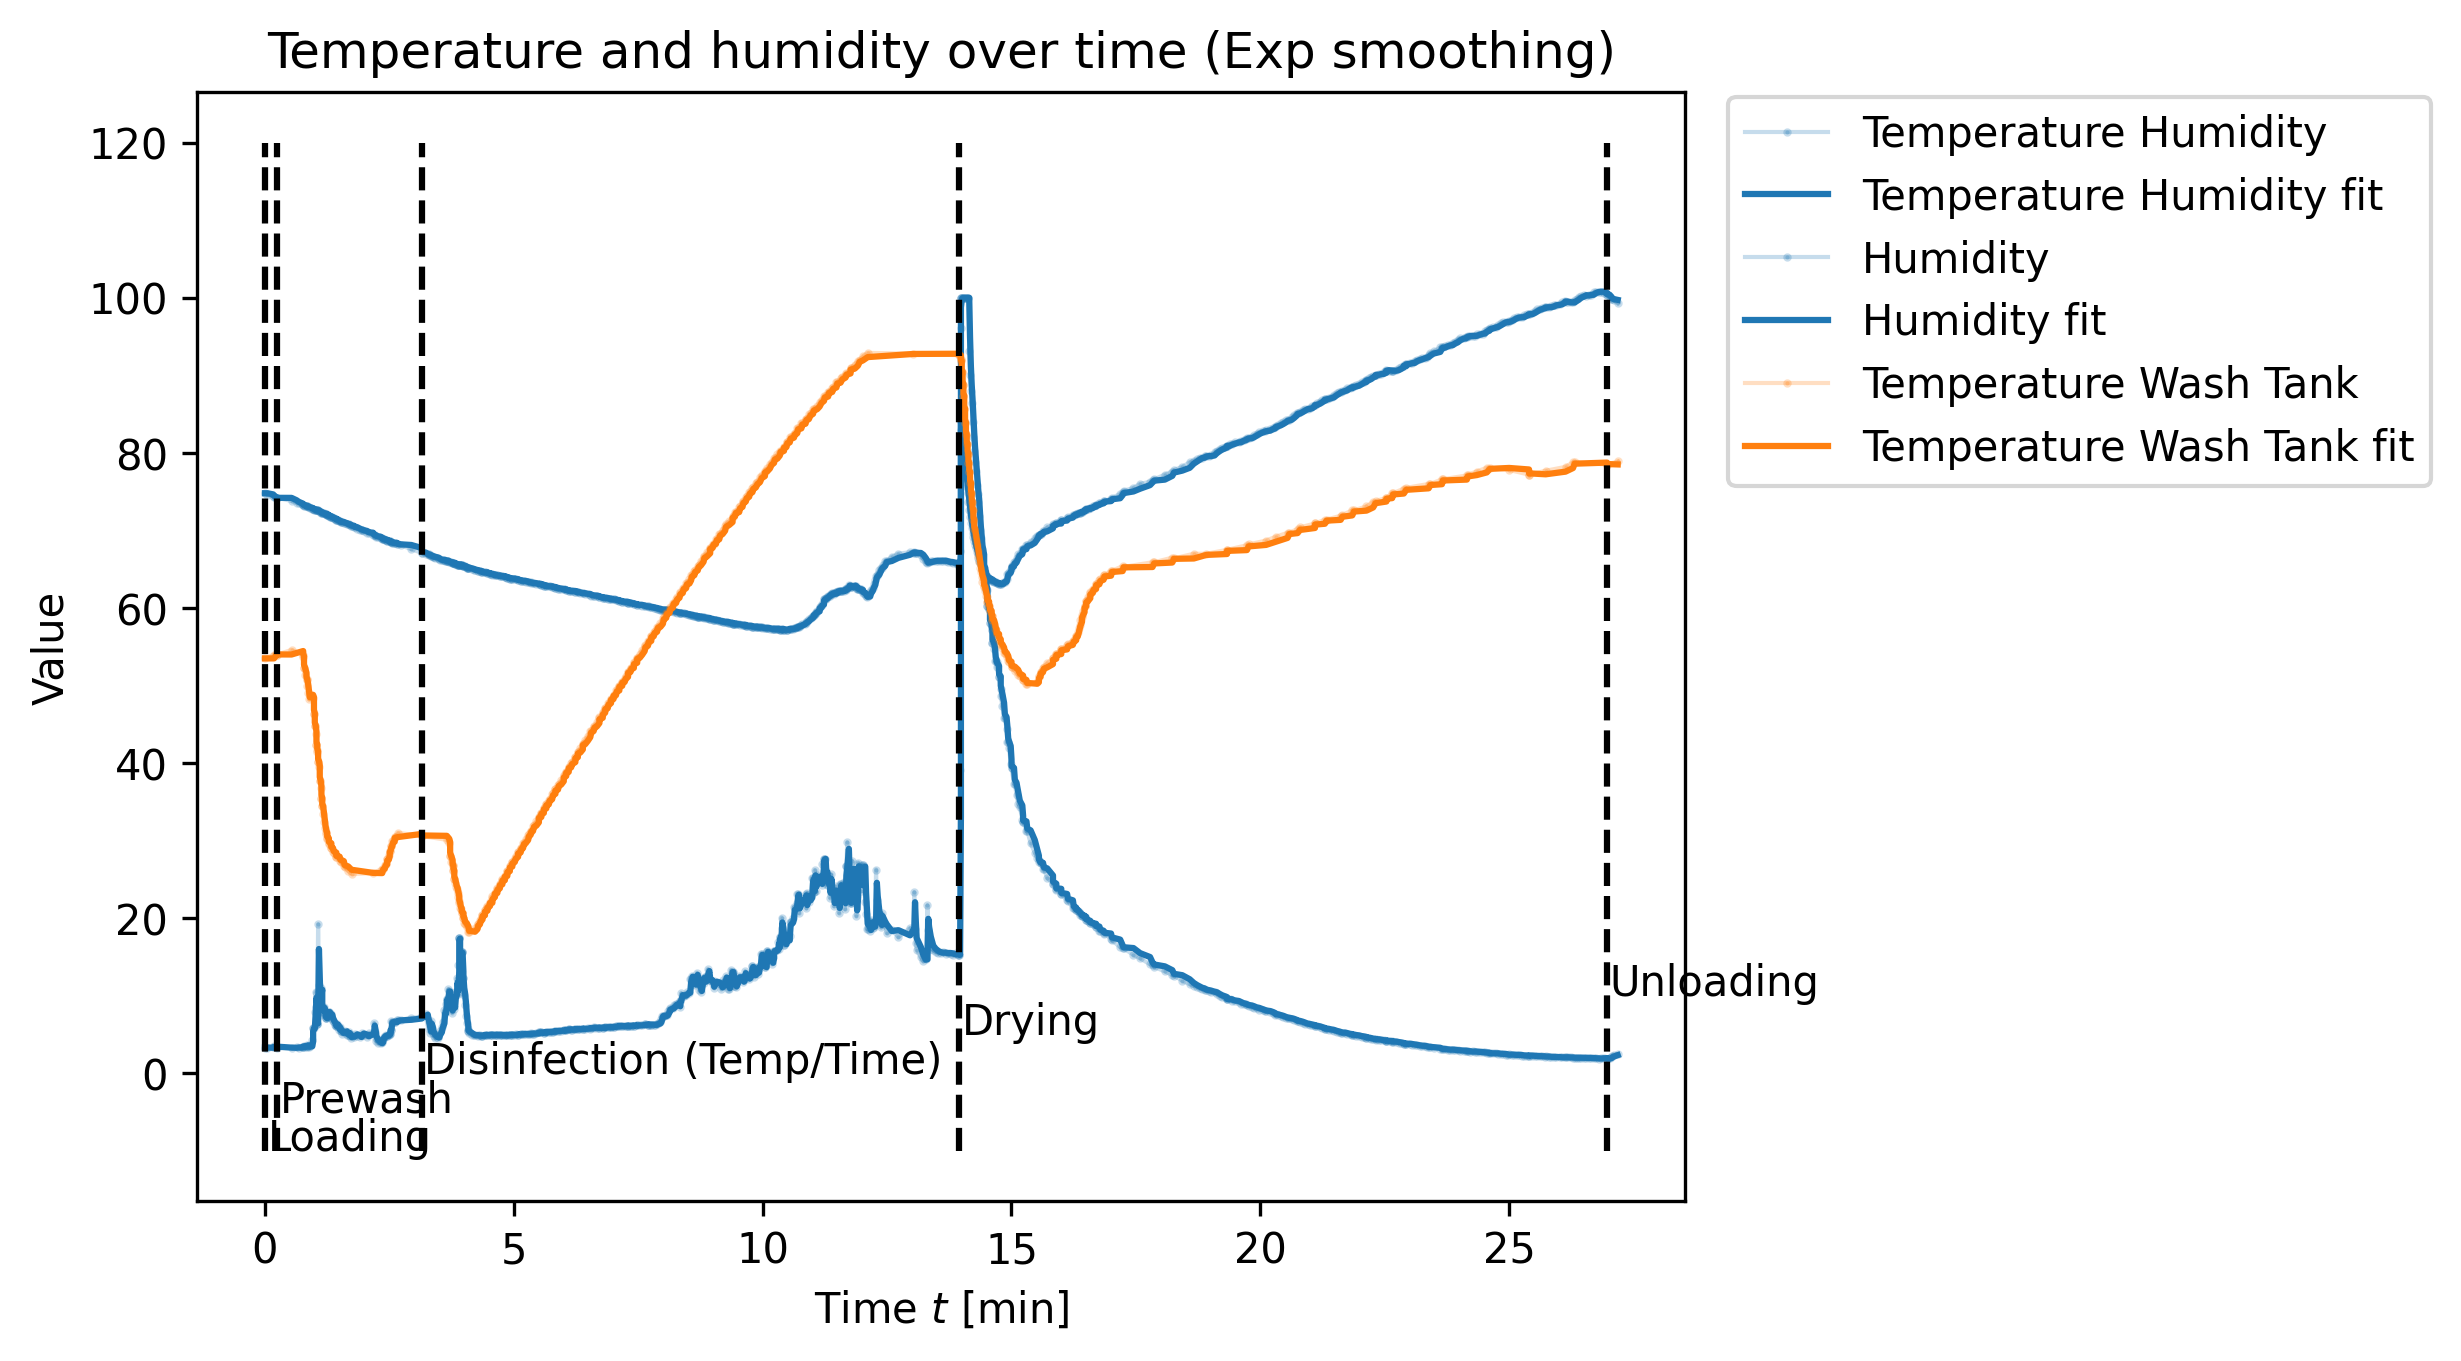
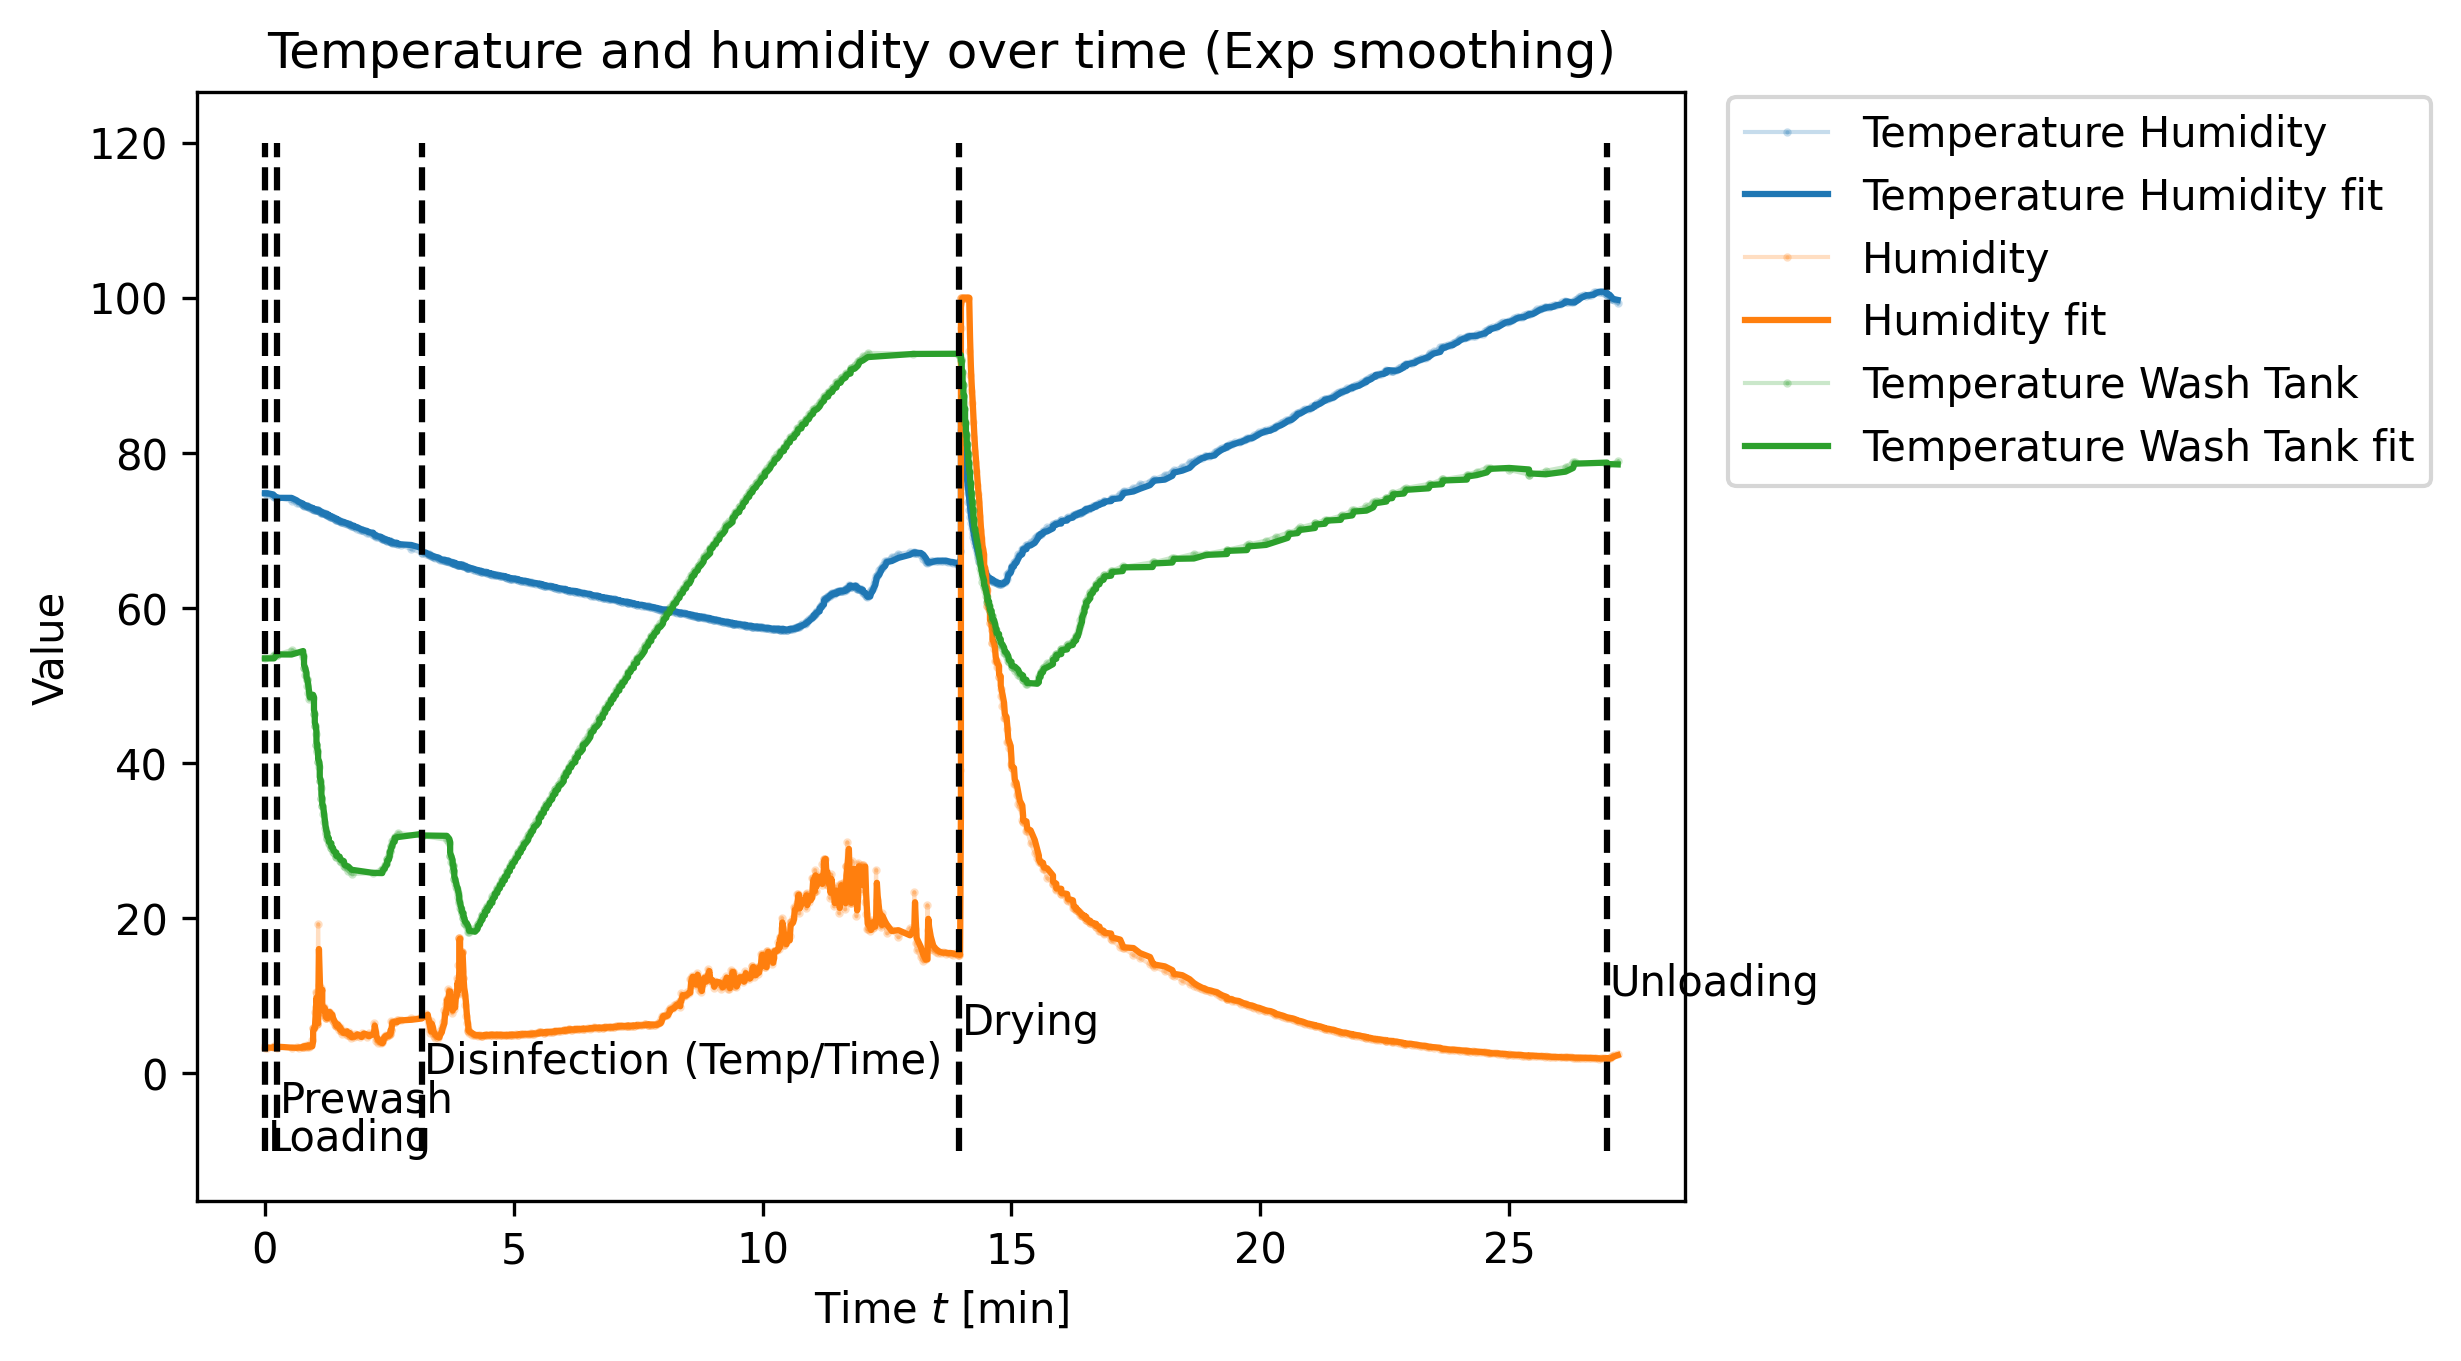
Graph color fix

diff --git a/model_rnn.py b/model_rnn.py
@@ -4,14 +4,15 @@
 
 TO-DO / IDEAS
 
-    - The main idea is to use a RNN Time-Series Forecasting to predict future values
-      of the parameters (temperature and humidity) based on the previous values.
+    - The main idea is to use a RNN (LSTM) Time-Series Forecasting to predict future
+      values of the parameters (temperature and humidity) based on the previous values.
       Usually, this is done for a single time series over a long period of time,
-      rather than many different shorter series. Concatenation doesn't make sense!
+      rather than many different shorter series.
 
 '''
 
 import os
+import datetime
 import pandas as pd
 import numpy as np
 import matplotlib.pyplot as plt
@@ -19,112 +20,114 @@ import matplotlib.pyplot as plt
 import torch
 import torch.nn as nn
 
-directory = "./sample_data/database/train/"
-files = np.sort(os.listdir(directory))
+# Directories where data is
+fdir = "./sample_data/database/"
+files = np.sort(os.listdir(fdir))
 
-# Concatenate all the data available
-T = []
-TH = []
+# Empty numpy array to store humidity values
+datax = []
+datay = []
 
-H = np.empty(0)
+# Value to store first tick of each file
+first_tick = 0
 
+# Obtain the relevant array to forecast (humidity values)
 for file in files:
 
-    df = pd.read_csv(directory + file)
+    # Open .csv file as pandas dataframe
+    df = pd.read_csv(fdir + file)
     df = df.fillna(0)
 
+    # Find tick values when drying starts and ends
     for row in df.itertuples(index=False, name="Pandas"):
-        if getattr(row, "H_tick") > df["Dry_tick"].iloc[0]:
-            T.append(getattr(row, "T_val"))
-            TH.append(getattr(row, "TH_val"))
-            #H.append(getattr(row, "H_val"))
-            H = np.append(H, getattr(row, "H_val"))
+        if getattr(row, "Phase_val") == "Drying":
+            drying_start = getattr(row, "Phase_tick")
+        if getattr(row, "Phase_val") == "Unloading":
+            drying_end = getattr(row, "Phase_tick")
+    # Find values of humidity
+    for row in df.itertuples(index=False, name="Pandas"):
+        row_htick = getattr(row, "H_tick")
+        if row_htick > drying_start and row_htick < drying_end:
+            datax.append( getattr(row, "H_tick") + first_tick )
+            datay.append( getattr(row, "H_val") )
 
-# Already padded! Same length!
-Tx = np.arange(start=0, stop=len(T))
-THx = np.arange(start=0, stop=len(TH))
-Hx = np.arange(start=0, stop=len(H))
-print(len(Tx), len(THx), len(Hx))
+    first_tick += datax[0]
 
-# For now, let's focus only on Humidity
+# Plot data with arange and with tick values (to compare)
+fig, ax = plt.subplots(nrows=1, ncols=2)
+fig.set_size_inches(w=12, h=6)
+ax[0].plot(datax, datay)
+ax[1].plot(np.arange(len(datay)), datay)
+#plt.show()
+plt.close()
 
-# Create relevant pytorch tensors
-x = torch.arange(0,len(H),1)
-print(type(x))
-# Convert numpy array into pytorch tensor
-y = torch.from_numpy(H).to(torch.float32)
+# Split data into train and test datasets
+train_datay = datay[:835]
+test_datay = datay[835:]
+x = np.arange(len(datay))
+train_x = x[:835]
+test_x = x[835:]
+plt.plot(train_x, train_datay, marker=".")
+plt.plot(test_x, test_datay, marker=".")
+#plt.show()
+plt.close()
 
-# Split data into train/test
-test_size = 40
-train_set = y[:-test_size]
-test_set = y[:-test_size]
+# Setup PyTorch device
+device = "cuda" if torch.cuda.is_available() else "mps" if torch.backends.mps.is_available() else "cpu"
+torch.set_default_device(device)
+torch.device(device)
 
-# Create data batches
-def input_data(seq,ws):
-    out = []
-    L = len(seq)
-    
-    for i in range(L-ws):
-        window = seq[i:i+ws]
-        label = seq[i+ws:i+ws+1]
-        out.append((window,label))
-    
-    return out
+# Setup random seed
+seed = datetime.datetime.now().timestamp()
+torch.manual_seed(seed)
 
-window_size = 40
-train_data = input_data(train_set, window_size)
+# Convert train and test data to tensors
+X_train = torch.from_numpy(train_x).float().to(device)
+X_train = X_train.unsqueeze(-1)
+y_train = torch.from_numpy(test_x).float().to(device)
 
-# Define model (LSTM)
+# Define LSTM Model
 class LSTM(nn.Module):
 
-    def __init__(self, input_size = 1, hidden_size = 50, out_size = 1):
+    def __init__(self, input_size=1, hidden_layer_size=50, output_size=1):
 
         super().__init__()
-        self.hidden_size = hidden_size
-        self.lstm = nn.LSTM(input_size, hidden_size)
-        self.linear = nn.Linear(hidden_size,out_size)
-        self.hidden = (torch.zeros(1,1,hidden_size),torch.zeros(1,1,hidden_size))
 
-    def forward(self,seq):
-        lstm_out, self.hidden = self.lstm(seq.view(len(seq),1,-1), self.hidden)
-        pred = self.linear(lstm_out.view(len(seq),-1))
-        return pred[-1]
+        self.hidden_layer_size = hidden_layer_size
+        self.lstm = nn.LSTM(input_size, hidden_layer_size, device=device)
+        self.linear = nn.Linear(hidden_layer_size, output_size, device=device)
     
-torch.manual_seed(42)
-model = LSTM()
-criterion = nn.MSELoss()
-optimizer = torch.optim.SGD(model.parameters(), lr=0.01)
-
-epochs = 10
-future = 40
-
-for i in range(epochs):
-
-    print("Epoch " + str(i))
+    def forward(self, input_seq):
+        input_seq.to(device)
+        lstm_out, _ = self.lstm(input_seq)
+        predictions = self.linear(lstm_out[:, -1])
+        return predictions
     
-    for k, (seq, y_train) in enumerate(train_data):
+# Initialize model
+model = LSTM(input_size=1, hidden_layer_size=50, output_size=1).to(device)
+# Loss function
+loss = nn.MSELoss()
+# Optimizer
+optimizer = torch.optim.Adam(model.parameters(), lr=0.001)
+# Number of epochs to train for
+epochs = 100
 
-        print("Batch " + str(k))
-
-        optimizer.zero_grad()
-        model.hidden = (torch.zeros(1,1,model.hidden_size),
-                       torch.zeros(1,1,model.hidden_size))
-        
-        y_pred = model(seq)
-        loss = criterion(y_pred, y_train)
-        loss.backward()
-        optimizer.step()
-        
-    print(f"Epoch {i} Loss: {loss.item()}")
+# Training loop
+for epoch in range(epochs):
     
-    preds = train_set[-window_size:].tolist()
-    for f in range(future):
-        seq = torch.FloatTensor(preds[-window_size:])
-        with torch.no_grad():
-            model.hidden = (torch.zeros(1,1,model.hidden_size),
-                           torch.zeros(1,1,model.hidden_size))
-            preds.append(model(seq).item())
-        
-    loss = criterion(torch.tensor(preds[-window_size:]), y[760:])
-    print(f"Performance on test range: {loss}")
+    # Set model to train mode
+    model.train()
+    # Reset gradients
+    optimizer.zero_grad()
 
+    # Forward pass
+    y_pred = model(X_train).to(device)
+
+    # Compute the loss
+    loss = loss(y_pred, y_train).to(device)
+
+    # Backpropagation
+    loss.backward()
+    optimizer.step()
+
+    print("Epoch {}/{}\tLoss {}".format(epoch, epochs, loss.item()))

diff --git a/sample_data/graph_expsmooth.py b/sample_data/graph_expsmooth.py
@@ -14,7 +14,7 @@ gdir = "./graphs/exp-smooth/"
 fnames = []
 
 # Colors for plots
-colors = ["tab:blue", "tab:blue", "tab:orange", "tab:orange", "tab:green", "tab:green"]
+colors = ["tab:blue", "tab:orange", "tab:green"]
 
 for file in os.listdir(fdir):
     fnames.append(file)

diff --git a/sample_data/graph_sg.py b/sample_data/graph_sg.py
@@ -18,7 +18,7 @@ window = 25
 order = 3
 
 # Colors for plots
-colors = ["tab:blue", "tab:blue", "tab:orange", "tab:orange", "tab:green", "tab:green"]
+colors = ["tab:blue", "tab:orange", "tab:green"]
 
 for file in os.listdir(fdir):
     fnames.append(file)
